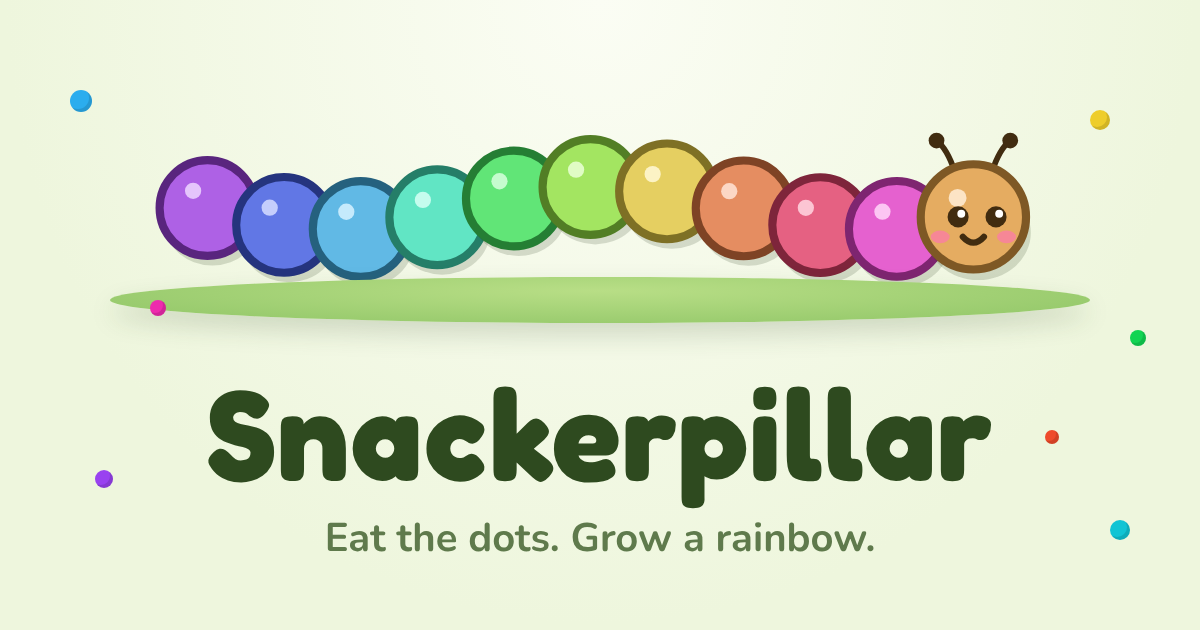
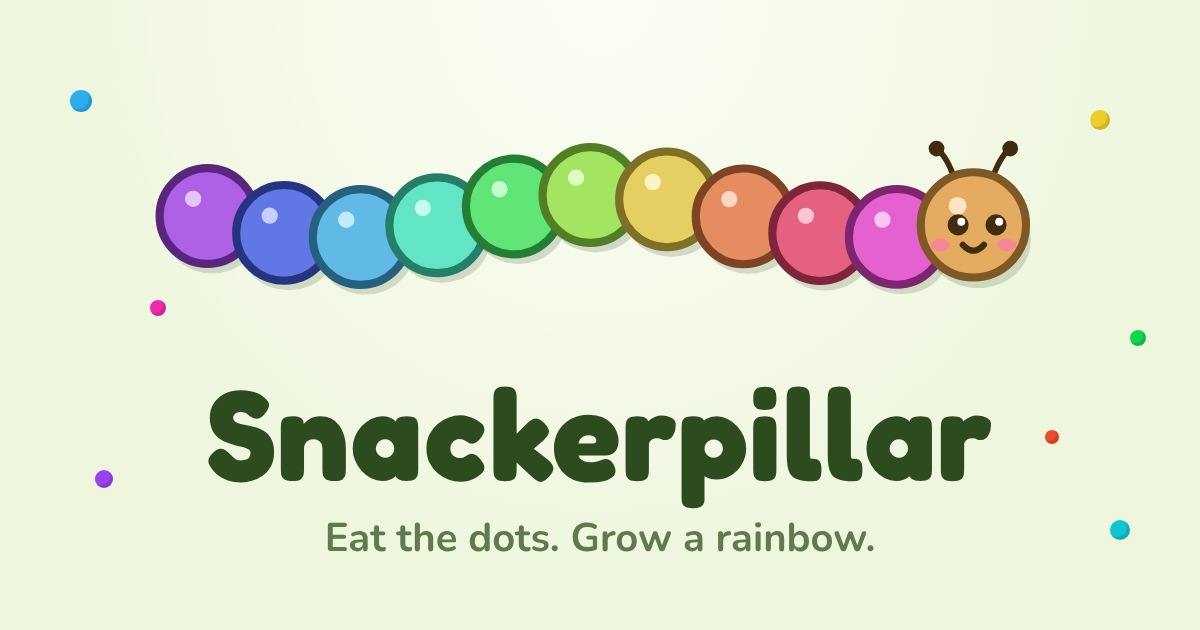
Drop the grass under the caterpillar; call it a Tiny Game Arcade game
The home page and link-preview picture no longer have the green patch
of grass under the caterpillar. "From the maker of PetriPals" becomes
"A Tiny Game Arcade game.", linking to the arcade.

Claude-Session: https://claude.ai/code/session_017pzPeaJcn57EpJ6QjynjEp

Changed region(s): [[0.0925, 0.2111, 0.925, 0.5429]]

diff --git a/public/index.html b/public/index.html
@@ -15,7 +15,7 @@
   <meta property="og:image" content="https://jessicasogge.github.io/snackerpillar/social-preview.png">
   <meta property="og:image:width" content="1200">
   <meta property="og:image:height" content="630">
-  <meta property="og:image:alt" content="A smiling caterpillar made of rainbow-colored circles on the grass, above the words Snackerpillar: Eat the dots. Grow a rainbow.">
+  <meta property="og:image:alt" content="A smiling caterpillar made of rainbow-colored circles, above the words Snackerpillar: Eat the dots. Grow a rainbow.">
   <meta name="twitter:card" content="summary_large_image">
   <link rel="icon" href="favicon.svg" type="image/svg+xml">
   <link rel="preload" href="fonts/fredoka-700.woff2" as="font" type="font/woff2" crossorigin>
@@ -25,7 +25,6 @@
   <main>
     <!-- Tap her to feed her a dot (game/home.js). -->
     <button class="home-caterpillar" type="button" aria-label="Feed the caterpillar a dot"></button>
-    <div class="lawn" aria-hidden="true"></div>
 
     <h1 class="logo">Snackerpillar</h1>
     <p class="home-tagline">Eat the dots. Grow a rainbow.</p>
@@ -36,8 +35,7 @@
       finish all 10 levels, and don't bump into rocks, mushrooms or her own tail!
     </p>
     <p class="sister-game">
-      From the maker of
-      <a href="https://jessicasogge.github.io/petripals/">PetriPals</a>.
+      A <a href="https://jessicasogge.github.io/tiny-game-arcade/">Tiny Game Arcade</a> game.
     </p>
   </main>
   <footer class="signature">jsogge 2026</footer>

diff --git a/test/home.test.js b/test/home.test.js
@@ -83,12 +83,19 @@ describe('the home page', () => {
     expect(start.getAttribute('href')).toBe('play.html');
   });
 
+  it("doesn't put a patch of grass under her", () => {
+    expect(document.querySelector('.lawn')).toBeNull();
+  });
+
   it('tells screen readers what tapping her does', () => {
     expect(document.querySelector('.home-caterpillar').getAttribute('aria-label')).toBe('Feed the caterpillar a dot');
   });
 
-  it('links to PetriPals and is signed', () => {
-    expect(document.querySelector('.sister-game a').href).toBe('https://jessicasogge.github.io/petripals/');
+  it('says it is a Tiny Game Arcade game, with a link to the arcade, and is signed', () => {
+    const line = document.querySelector('.sister-game');
+    expect(line.textContent.replace(/\s+/g, ' ').trim()).toBe('A Tiny Game Arcade game.');
+    expect(line.querySelector('a').href).toBe('https://jessicasogge.github.io/tiny-game-arcade/');
+    expect(document.body.textContent).not.toMatch(/From the maker/);
     expect(document.querySelector('.signature').textContent).toBe('jsogge 2026');
   });
 });

diff --git a/public/styles.css b/public/styles.css
@@ -278,7 +278,7 @@ html.input-keys .for-keys {
   border-radius: 8px;
 }
 
-/* The home page: the caterpillar on her patch of grass, the name, and the
+/* The home page: the caterpillar, the name, and the
    Start button, centered, with the signature pushed to the bottom. */
 body.home {
   min-height: 100vh;
@@ -350,16 +350,6 @@ body.home main {
   0% { transform: scale(1); }
   40% { transform: scale(1.06); }
   100% { transform: scale(1); }
-}
-
-/* The patch of grass she sits on. */
-.lawn {
-  width: min(600px, 100%);
-  height: 26px;
-  margin-top: -14px;
-  border-radius: 50%;
-  background: radial-gradient(ellipse at 50% 30%, var(--field-1), var(--field-2));
-  box-shadow: 0 8px 18px rgba(46, 74, 31, 0.15);
 }
 
 .logo {

diff --git a/public/play.html b/public/play.html
@@ -14,7 +14,7 @@
   <meta property="og:image" content="https://jessicasogge.github.io/snackerpillar/social-preview.png">
   <meta property="og:image:width" content="1200">
   <meta property="og:image:height" content="630">
-  <meta property="og:image:alt" content="A smiling caterpillar made of rainbow-colored circles on the grass, above the words Snackerpillar: Eat the dots. Grow a rainbow.">
+  <meta property="og:image:alt" content="A smiling caterpillar made of rainbow-colored circles, above the words Snackerpillar: Eat the dots. Grow a rainbow.">
   <meta name="twitter:card" content="summary_large_image">
   <link rel="icon" href="favicon.svg" type="image/svg+xml">
   <link rel="stylesheet" href="styles.css">

diff --git a/README.md b/README.md
@@ -57,7 +57,7 @@ Then open <http://localhost:3007>. To use another port, set `PORT`, like `PORT=4
 
 ## How it's put together
 
-The server (`src/index.ts`) is a small Express app that serves the `public/` folder and a `/health` check. `public/index.html` is the home page, with a caterpillar you can tap to feed and the **Press Start to Play** button. `public/play.html` is the game. `public/social-preview.png` is the picture shown when the link is shared in messages or on social media.
+The server (`src/index.ts`) is a small Express app that serves the `public/` folder and a `/health` check. `public/index.html` is the home page, with a caterpillar you can tap to feed, the **Press Start to Play** button, and a link to the [Tiny Game Arcade](https://jessicasogge.github.io/tiny-game-arcade/). `public/play.html` is the game. `public/social-preview.png` is the picture shown when the link is shared in messages or on social media.
 
 The game itself runs entirely in the browser, as plain JavaScript modules in `public/game/`:
 
